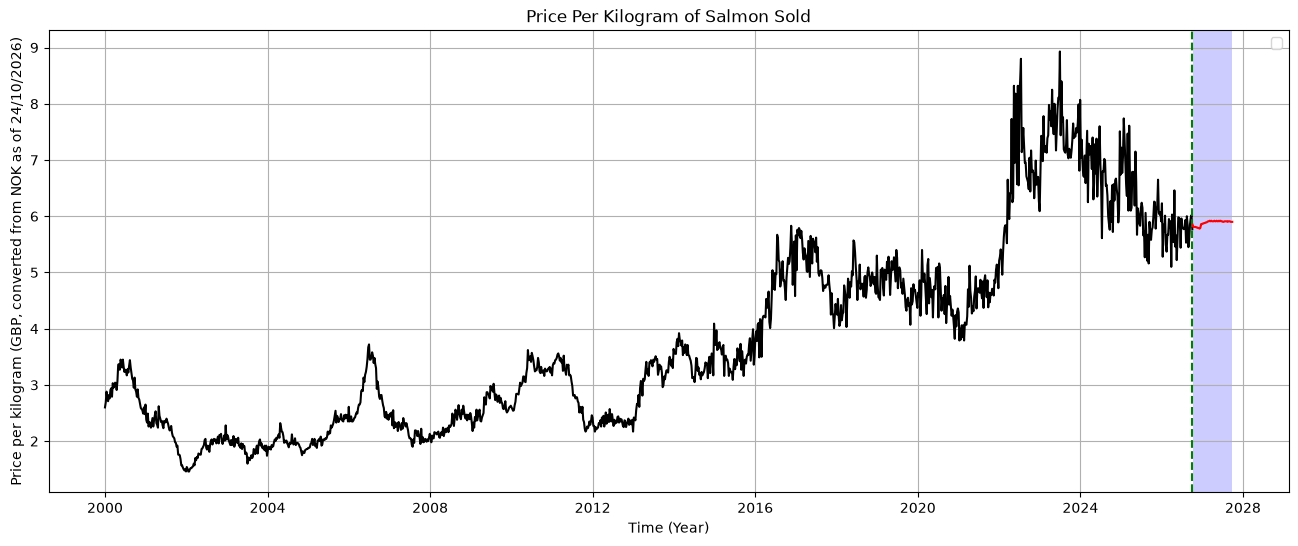
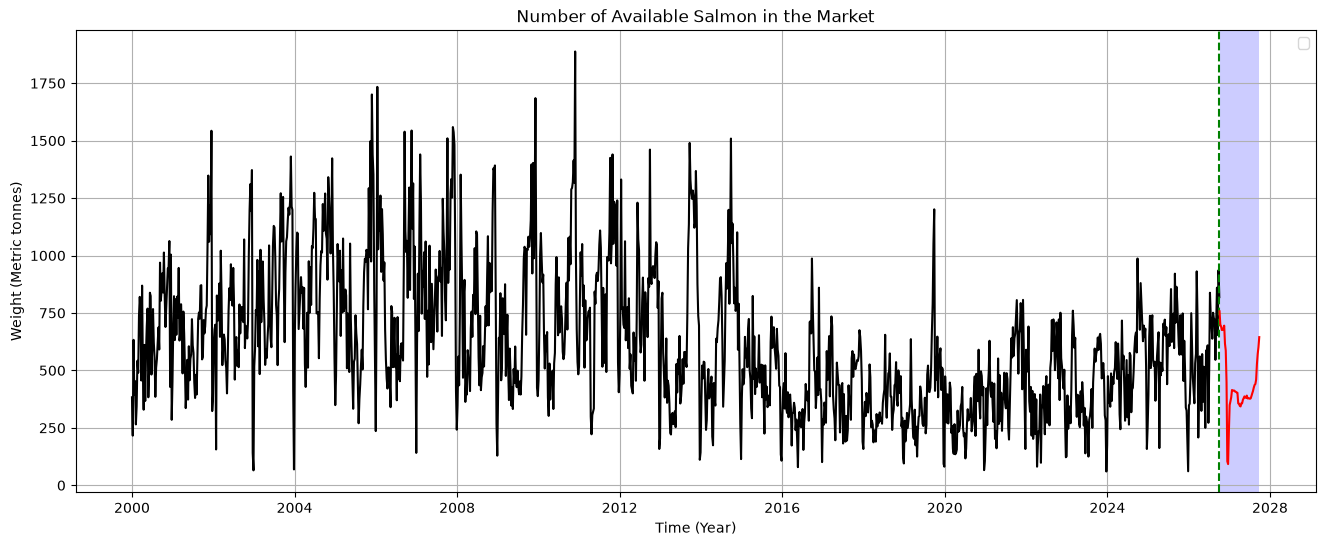
idk

diff --git a/src/quan_price.html b/src/quan_price.html
@@ -8,32 +8,27 @@
 <link rel="preconnect" href="https://fonts.googleapis.com">
 <link rel="preconnect" href="https://fonts.gstatic.com" crossorigin>
 <link href="https://fonts.googleapis.com/css2?family=Montserrat:wght@400;500;600;700&display=swap" rel="stylesheet">
+<link href="style.css" rel="stylesheet">
 </head>
 <body class="bg-body-tertiary" style="--bs-body-font-family: 'Montserrat', sans-serif; background: linear-gradient(rgba(255, 255, 255, 0.5), rgba(255, 255, 255, 0.5)), url('salmon.png') center / cover no-repeat fixed;">
 <div class="container-fluid px-0"><div class="row g-0 min-vh-100">
-  <aside class="col-4 col-md-3 col-xl-2 sticky-top align-self-start vh-100 bg-body-tertiary"><iframe class="w-100 vh-100 border-0 d-block" src="side.html?active=quan_price.html" title="Sidebar navigation"></iframe></aside>
-  <main class="col-8 col-md-9 col-xl-10 p-3 p-lg-4">
+  <aside class="app-sidebar bg-body-tertiary"><iframe class="sidebar-frame w-100 border-0 d-block" src="side.html?active=quan_price.html" title="Sidebar navigation"></iframe></aside>
+  <main class="app-main p-3 p-lg-4">
     <div class="container-fluid px-0">
       <h1 class="h2 fw-bold mb-3">Quantity forecast</h1>
       <p class="mb-4 text-body-secondary">Explore historical salmon exports and the weekly quantity forecast in one graph.</p>
       <section class="card bg-white shadow-sm rounded-4 p-3 p-lg-4" aria-label="Historical and forecast quantity graph">
-        <p class="small text-body-secondary">Blue: historical data. Dashed orange: forecast. The pale orange background marks the forecast period; it is not a confidence interval. Quantities are weekly export volumes in tonnes, not supplier stock.</p>
-        <p class="small text-body-secondary" id="chart-status" role="status" aria-live="polite">Loading quantity data…</p>
-        <div><div class="position-relative" id="chart" role="img" aria-label="Weekly historical and forecast salmon export quantities"></div></div>
-        <div class="overflow-x-scroll overflow-y-hidden py-2 focus-ring" id="timeline" tabindex="0" role="region" aria-label="Scroll through quantity history" aria-describedby="timeline-help"><div class="py-1" id="timeline-track"></div></div>
-        <div class="d-flex justify-content-between small text-body-secondary mt-2"><span id="history-start"></span><span id="history-end"></span></div>
-        <output class="d-block p-3 mt-3 rounded-3 bg-body-tertiary small" id="point-value">Hover over or tap the graph to inspect a weekly value.</output>
-        <p class="small text-body-secondary" id="timeline-help">Two years are shown at a time. Scroll horizontally over the graph or drag the scrollbar above to explore earlier years. Focus the scrollbar and use the arrow keys to navigate.</p>
-        <details class="mt-4 pt-3 border-top">
-          <summary class="fw-semibold py-2" id="forecast-summary">Weekly forecast values</summary>
-          <div class="table-responsive" tabindex="0" role="region" aria-label="Forecast values">
-            <table class="table table-striped table-hover caption-top small"><caption>Forecast export quantity, by week starting Monday</caption><thead class="table-warning"><tr><th scope="col">Week starting</th><th scope="col">Quantity (tonnes)</th></tr></thead><tbody id="forecast-rows"></tbody></table>
-          </div>
-        </details>
+        <p class="small text-body-secondary">Black: historical data. Red: forecast. The shaded area marks the forecast period; it is not a confidence interval.</p>
+        <figure class="mb-0">
+          <a class="d-block" href="../data/Figure_2.png" target="_blank" rel="noopener" aria-label="Open quantity graph at full size in a new tab">
+            <img class="img-fluid w-100" src="../data/Figure_2.png" width="1539" height="600" alt="Historical salmon quantity and forecast through 2027. Historical weekly salmon export volume and forecast in metric tonnes. Export volume is not supplier stock.">
+          </a>
+          <figcaption class="small text-body-secondary mt-3">Historical weekly salmon export volume and forecast in metric tonnes. Export volume is not supplier stock.</figcaption>
+        </figure>
+        <a class="align-self-start mt-3" href="../data/Figure_2.png" target="_blank" rel="noopener">Open full-size graph (new tab)</a>
       </section>
     </div>
   </main>
 </div></div>
-<script src="quantity-graph.js" defer></script>
 </body>
 </html>

diff --git a/src/price_graph.html b/src/price_graph.html
@@ -8,28 +8,27 @@
 <link rel="preconnect" href="https://fonts.googleapis.com">
 <link rel="preconnect" href="https://fonts.gstatic.com" crossorigin>
 <link href="https://fonts.googleapis.com/css2?family=Montserrat:wght@400;500;600;700&display=swap" rel="stylesheet">
+<link href="style.css" rel="stylesheet">
 </head>
 <body class="bg-body-tertiary" style="--bs-body-font-family: 'Montserrat', sans-serif; background: linear-gradient(rgba(255, 255, 255, 0.5), rgba(255, 255, 255, 0.5)), url('salmon.png') center / cover no-repeat fixed;">
 <div class="container-fluid px-0"><div class="row g-0 min-vh-100">
-  <aside class="col-4 col-md-3 col-xl-2 sticky-top align-self-start vh-100 bg-body-tertiary"><iframe class="w-100 vh-100 border-0 d-block" src="side.html?active=quan_price.html" title="Sidebar navigation"></iframe></aside>
-  <main class="col-8 col-md-9 col-xl-10 p-3 p-lg-4">
+  <aside class="app-sidebar bg-body-tertiary"><iframe class="sidebar-frame w-100 border-0 d-block" src="side.html?active=price_graph.html" title="Sidebar navigation"></iframe></aside>
+  <main class="app-main p-3 p-lg-4">
     <div class="container-fluid px-0">
       <h1 class="h2 fw-bold mb-3">Price forecast</h1>
       <p class="mb-4 text-body-secondary">Explore historical salmon exports and the weekly price forecast in one graph.</p>
       <section class="card bg-white shadow-sm rounded-4 p-3 p-lg-4" aria-label="Historical and forecast price graph">
-        <p class="small text-body-secondary" id="chart-status" role="status" aria-live="polite">Loading price data…</p>
-        <div><div class="position-relative" id="chart" role="img" aria-label="Weekly historical and forecast salmon export prices"></div></div>
-        <div class="overflow-x-scroll overflow-y-hidden py-2 focus-ring" id="timeline" tabindex="0" role="region" aria-label="Scroll through price history" aria-describedby="timeline-help"><div class="py-1" id="timeline-track"></div></div>
-        <div class="d-flex justify-content-between small text-body-secondary mt-2"><span id="history-start"></span><span id="history-end"></span></div>
-          <summary class="fw-semibold py-2" id="forecast-summary">Weekly forecast values</summary>
-          <div class="table-responsive" tabindex="0" role="region" aria-label="Forecast values">
-            <table class="table table-striped table-hover caption-top small"><caption>Forecast export prices, by week starting Monday</caption><thead class="table-warning"><tr><th scope="col">Week starting</th><th scope="col">Price (USD/tonne)</th></tr></thead><tbody id="forecast-rows"></tbody></table>
-          </div>
-        </details>
+        <p class="small text-body-secondary">Black: historical data. Red: forecast. The shaded area marks the forecast period; it is not a confidence interval.</p>
+        <figure class="mb-0">
+          <a class="d-block" href="../data/Figure_1.png" target="_blank" rel="noopener" aria-label="Open price graph at full size in a new tab">
+            <img class="img-fluid w-100" src="../data/Figure_1.png" width="1539" height="600" alt="Historical salmon price and forecast through 2027. Historical salmon price and forecast in GBP per kilogram, converted from NOK as of 24 October 2026.">
+          </a>
+          <figcaption class="small text-body-secondary mt-3">Historical salmon price and forecast in GBP per kilogram, converted from NOK as of 24 October 2026.</figcaption>
+        </figure>
+        <a class="align-self-start mt-3" href="../data/Figure_1.png" target="_blank" rel="noopener">Open full-size graph (new tab)</a>
       </section>
     </div>
   </main>
 </div></div>
-<script src="price-graph.js" defer></script>
 </body>
 </html>

diff --git a/src/reccom_eng.html b/src/reccom_eng.html
@@ -8,11 +8,12 @@
 <link rel="preconnect" href="https://fonts.gstatic.com" crossorigin>
 <link href="https://fonts.googleapis.com/css2?family=Montserrat:wght@400;500;600;700&display=swap" rel="stylesheet">
 <link href="https://cdn.jsdelivr.net/npm/bootstrap@5.3.3/dist/css/bootstrap.min.css" rel="stylesheet">
+<link href="style.css" rel="stylesheet">
 </head>
 <body class="bg-body-tertiary" style="--bs-body-font-family: 'Montserrat', sans-serif; background: linear-gradient(rgba(255, 255, 255, 0.5), rgba(255, 255, 255, 0.5)), url('salmon.png') center / cover no-repeat fixed;">
 <div class="container-fluid px-0"><div class="row g-0 min-vh-100">
-  <aside class="col-4 col-md-3 col-xl-2 sticky-top align-self-start vh-100 bg-body-tertiary"><iframe class="w-100 vh-100 border-0 d-block" src="side.html?active=reccom_eng.html" title="Sidebar navigation"></iframe></aside>
-  <main class="col-8 col-md-9 col-xl-10 p-3 p-lg-4">
+  <aside class="app-sidebar bg-body-tertiary"><iframe class="sidebar-frame w-100 border-0 d-block" src="side.html?active=reccom_eng.html" title="Sidebar navigation"></iframe></aside>
+  <main class="app-main p-3 p-lg-4">
     <div id="engine" class="container-fluid px-0">
       <h1 class="h2 fw-bold mb-3">Recommendation Engine</h1>
       <p class="mb-4 text-body-secondary">Plan your salmon purchase with a budget, quantity, and buying deadline.</p>

diff --git a/src/side.html b/src/side.html
@@ -8,10 +8,11 @@
   <link rel="preconnect" href="https://fonts.gstatic.com" crossorigin>
   <link href="https://fonts.googleapis.com/css2?family=Montserrat:wght@400;500;600;700&display=swap" rel="stylesheet">
   <link href="https://cdn.jsdelivr.net/npm/bootstrap@5.3.3/dist/css/bootstrap.min.css" rel="stylesheet">
-  </head>
+  <link href="style.css" rel="stylesheet">
+</head>
 <body class="bg-body-tertiary" style="--bs-body-font-family: 'Montserrat', sans-serif;">
   <nav class="d-flex flex-column flex-shrink-0 p-3 bg-body-tertiary min-vh-100">
-    <a href="salmon_ui.html" target="_parent" class="d-flex align-items-center mb-3 mb-md-0 me-md-auto link-body-emphasis text-decoration-none">
+    <a href="reccom_eng.html" target="_parent" class="d-flex align-items-center mb-3 mb-md-0 me-md-auto link-body-emphasis text-decoration-none">
       <span class="fs-4">Salmon.EXE</span>
     </a>
     <hr>

diff --git a/src/style.css b/src/style.css
@@ -1,0 +1,40 @@
+:root {
+  --bs-body-font-family: 'Montserrat', sans-serif;
+}
+
+.app-sidebar {
+  width: 15rem;
+  height: 100vh;
+  position: sticky;
+  top: 0;
+}
+
+.sidebar-frame {
+  height: 100%;
+}
+
+.app-main {
+  flex: 1;
+  min-width: 0;
+}
+
+.nav-link {
+  overflow-wrap: anywhere;
+}
+
+figure img {
+  height: auto;
+}
+
+@media (max-width: 767.98px) {
+  .app-sidebar {
+    width: 100%;
+    height: 15rem;
+    position: static;
+  }
+
+  .app-main {
+    flex: 0 0 100%;
+    width: 100%;
+  }
+}

diff --git a/backend.py b/backend.py
@@ -5,7 +5,7 @@ from datetime import date
 from pathlib import Path
 
 from fastapi import FastAPI, HTTPException, Query
-from fastapi.responses import RedirectResponse
+from fastapi.responses import FileResponse, RedirectResponse
 from fastapi.staticfiles import StaticFiles
 from pydantic import BaseModel, Field, ValidationError
 
@@ -104,5 +104,16 @@ def quantity_graph(start: date | None = None, end: date | None = None):
         raise HTTPException(422, f"Unable to load quantity graph: {error}") from error
 
 
-# Serve the existing frontend and API on the same origin. Expose only src/.
+@app.get("/data/{filename}")
+def graph_image(filename: str):
+    # Expose only the two chart images, not the source data directory.
+    if filename not in {"Figure_1.png", "Figure_2.png"}:
+        raise HTTPException(404, "Graph not found.")
+    path = ROOT / "data" / filename
+    if not path.is_file():
+        raise HTTPException(404, "Graph image has not been generated yet.")
+    return FileResponse(path, media_type="image/png")
+
+
+# Serve the existing frontend and API on the same origin.
 app.mount("/", StaticFiles(directory=ROOT / "src", html=True), name="frontend")

diff --git a/code/_12GenerateGraph.py b/code/_12GenerateGraph.py
@@ -54,4 +54,6 @@ def generateQuantityGraph():
     pyplot.show()
 
 generatePriceGraph()
+generateQuantityGraph()
+
 
